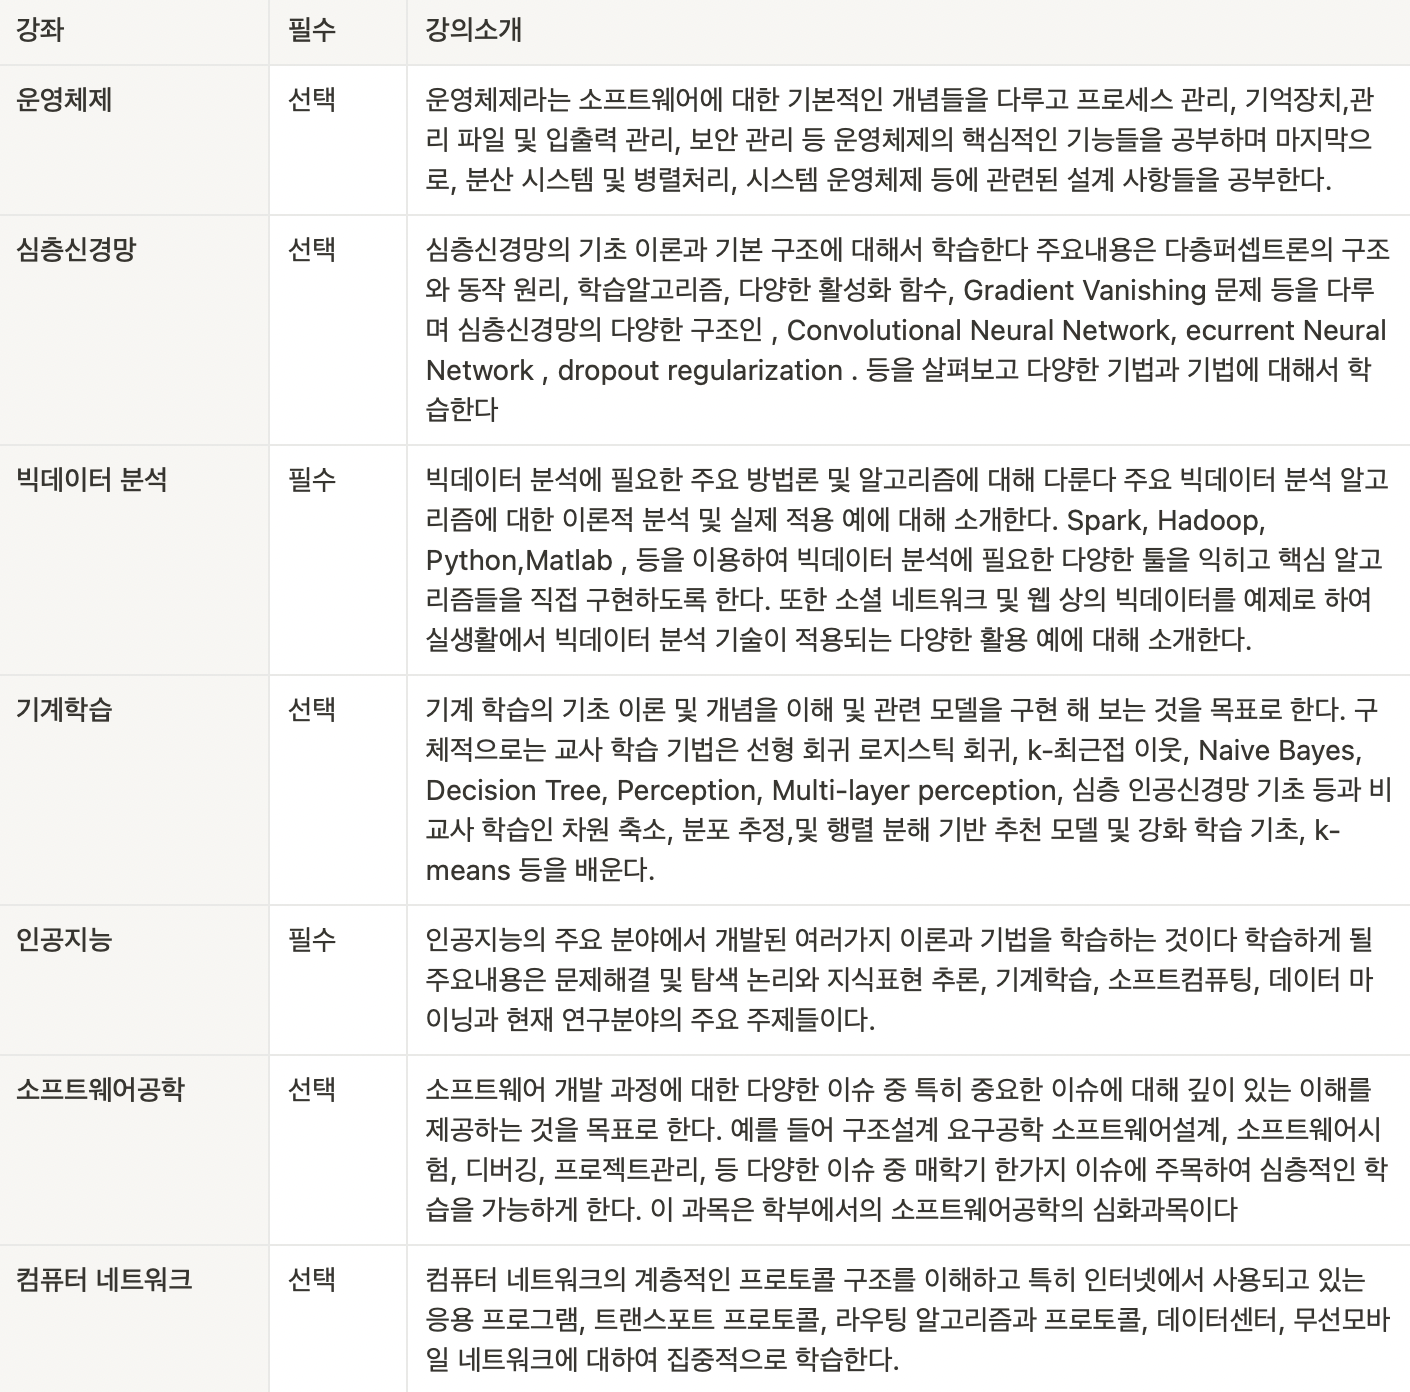
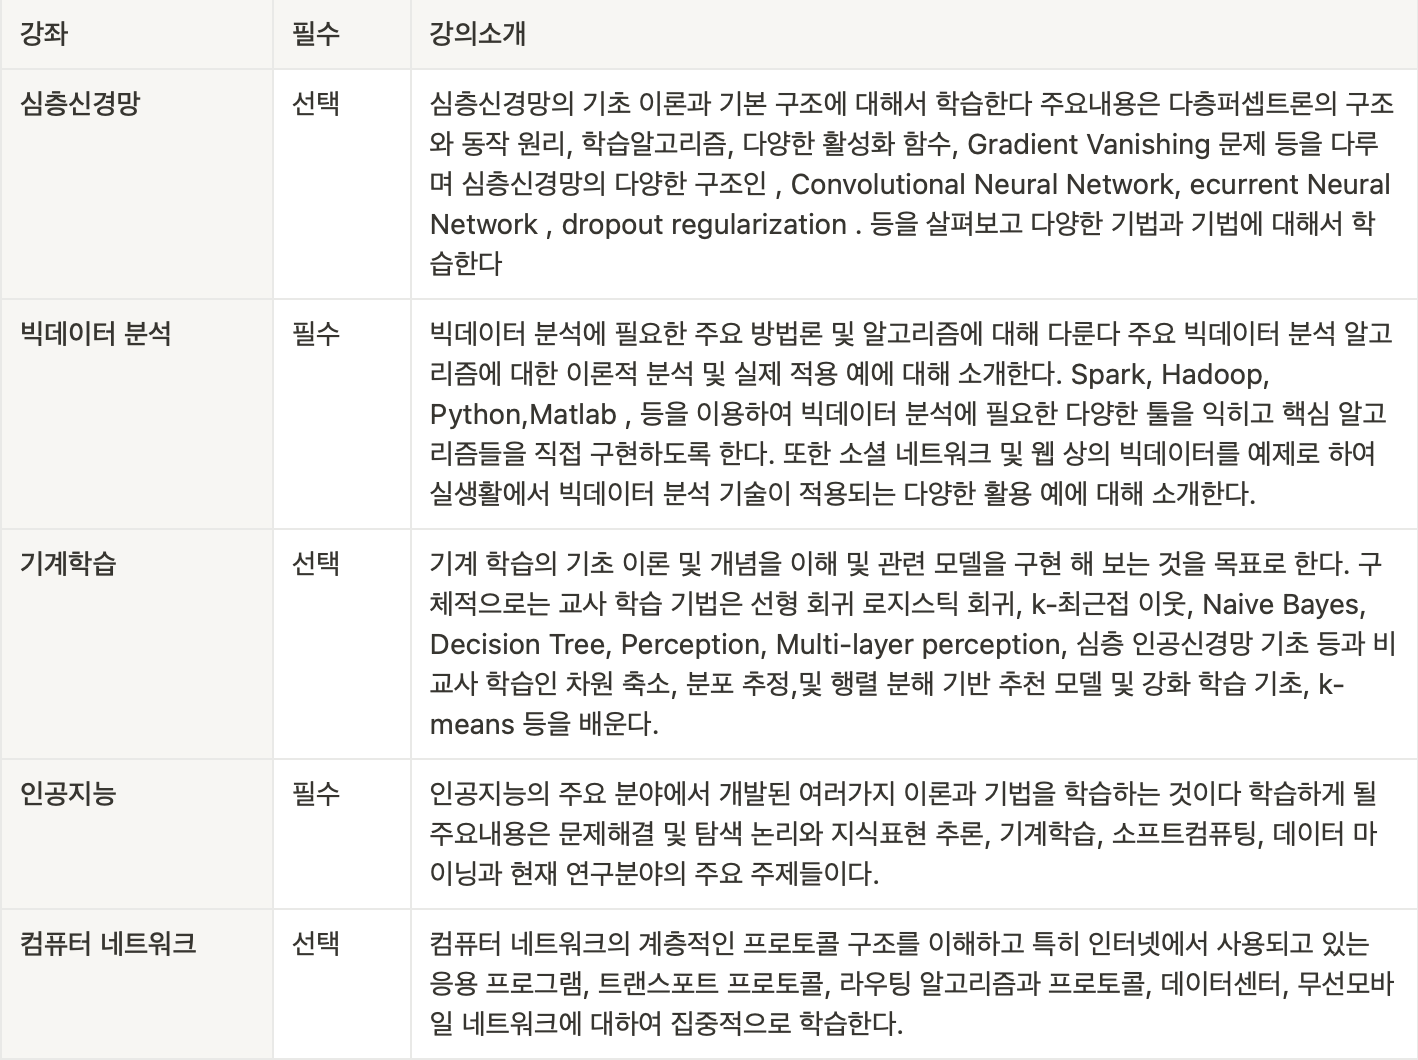
교과목 목록 수정, 교수진 이미지 수정, 교수진 추가

diff --git a/src/components/ksoftwarebootcamp/index.tsx b/src/components/ksoftwarebootcamp/index.tsx
@@ -174,26 +174,13 @@ const KSoftwareBootcamp = () => {
             교육에 대한 열정과 학생들에 대한 진심으로
             <br />더 나은 &lt;K-Software BootCamp 2022&gt;를 만들어 갑니다
           </h5>
-          {/* <StaticImage
-            className={Style.professors_img}
-            src="../../assets/images/professors.png"
-            alt="교수진"
-          ></StaticImage> */}
-
+         
           <div className={Style.professor_table}>
-            <div>
-              <div className={Style.first_title}>권장우</div>
-              <div className={Style.faculty_box}>
-                <StaticImage
-                  className={Style.faculty_img}
-                  src="../../assets/images/kjw2.png"
-                  alt="권장우"
-                  aspectRatio={3 / 4}
-                ></StaticImage>
-                <div className={Style.faculty_description}>
-                  <div className={Style.faculty_pr}>교육생들의 꿈을 현실로</div>
-                  <div className={Style.faculty_info}>
-                    <br />
+            <div className={Style.first_title}>교수진</div>
+            <div className={Style.mentor_name}>
+              <div className={Style.box}>
+                <StaticImage className={Style.faculty_img_small} src="../../assets/images/kjw2.png" alt="권장우"></StaticImage>
+                <span>권장우 (컴퓨터공학)<br/><br/>
                     1996~1998특허청 사무관
                     <br />
                     1998~2009동명대학교 부교수
@@ -207,43 +194,23 @@ const KSoftwareBootcamp = () => {
                     2012~인하대학교 교수
                     <br />
                     2022~인하대학교 sw중심대학사업단 단장
-                  </div>
-                </div>
+                </span>
               </div>
             </div>
-
-            <div>
-              <div className={Style.first_title}>이선우</div>
-              <div className={Style.faculty_box}>
-                <StaticImage
-                  className={Style.faculty_img}
-                  src="../../assets/images/lsw2.png"
-                  alt="이선우"
-                ></StaticImage>
-                <div className={Style.faculty_description}>
-                  <div className={Style.faculty_pr}>부드러운 카리스마</div>
-                  <div className={Style.faculty_info}>
-                    담당과목: 빅데이터분석, 기계학습, 인공지능, 데이터베이스,
-                    Python
-                  </div>
-                </div>
+            <div className={Style.mentor_name}>
+              <div className={Style.box}>
+                <StaticImage className={Style.faculty_img_small} src="../../assets/images/lsw2.png" alt="이선우"></StaticImage>
+                <span>이선우 (컴퓨터공학)<br/><br/>
+                  담당과목: 인공지능
+                </span>
               </div>
             </div>
-
-            <div>
-              <div className={Style.first_title}>김태간</div>
-              <div className={Style.faculty_box}>
-                <StaticImage
-                  className={Style.faculty_img}
-                  src="../../assets/images/ktg2.png"
-                  alt="김태간"
-                ></StaticImage>
-                <div className={Style.faculty_description}>
-                  <div className={Style.faculty_pr}>다정히 그리고 친절히</div>
-                  <div className={Style.faculty_info}>
-                    담당과목: C++, JAVA, React, 컴퓨터 네트워크
-                  </div>
-                </div>
+            <div className={Style.mentor_name}>
+              <div className={Style.box}>
+                <StaticImage className={Style.faculty_img_small} src="../../assets/images/ktg2.png" alt="김태간"></StaticImage>
+                <span>김태간 (컴퓨터공학)<br/><br/>
+                  담당과목: C++, JAVA, React, 컴퓨터 네트워크
+                </span>
               </div>
             </div>
             <div>
@@ -302,7 +269,13 @@ const KSoftwareBootcamp = () => {
                 <span>박재형 (정보통신공학)</span>
               </div>
             </div>
+            <div className={Style.mentor_name}>
+              <div>
+                <StaticImage height={110} className={Style.faculty_img_small} src="../../assets/images/강성관.png" alt="강성관"></StaticImage>
+                <span>강성관 (인하대학교 박사, 디지털십 연구소장)</span>
+              </div>
             </div>
+          </div>
           </div>
           
           <div className={Style.first_title}>수업참여멘토</div>

diff --git a/src/components/ksoftwarebootcamp/ksoftwarebootcamp.module.css b/src/components/ksoftwarebootcamp/ksoftwarebootcamp.module.css
@@ -127,6 +127,10 @@ h5 {
   margin-bottom: 10%;
   border: 0;
 }
+.box{
+  display: flex;
+  flex-direction: row;
+}
 .professors_img {
   margin: 0 auto 10% auto;
   width: 80%;
@@ -155,9 +159,13 @@ h5 {
   color: white;
   margin-bottom: 5%;
 }
+.faculty_img_box{
+  width:100px;
+  height:109px;
+}
 .faculty_img {
-  min-width: 200px;
-  flex: 3;
+  width:100%;
+  height:100%;
   margin-top: 3%;
   margin-bottom: 3%;
 }
@@ -216,8 +224,8 @@ h5 {
   margin-bottom: 10%;
 }
 .faculty_description {
-  flex: 7;
-  margin-left: 5%;
+  width: 80%;;
+  margin-left: 10%;
   margin-top: 5%;
 }
 
